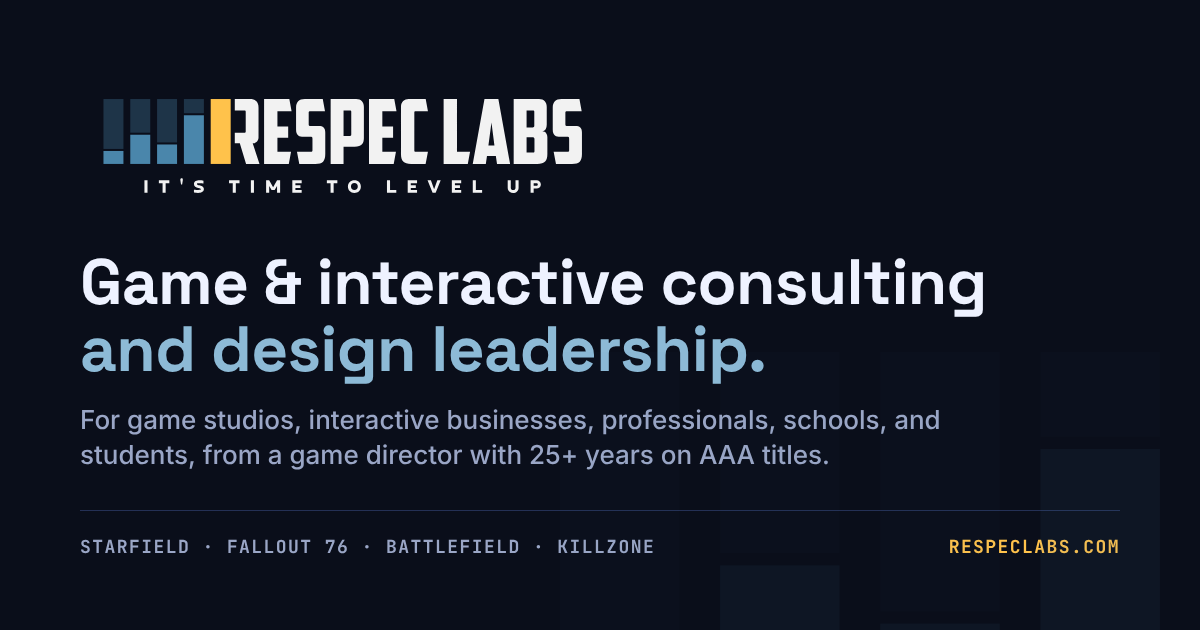
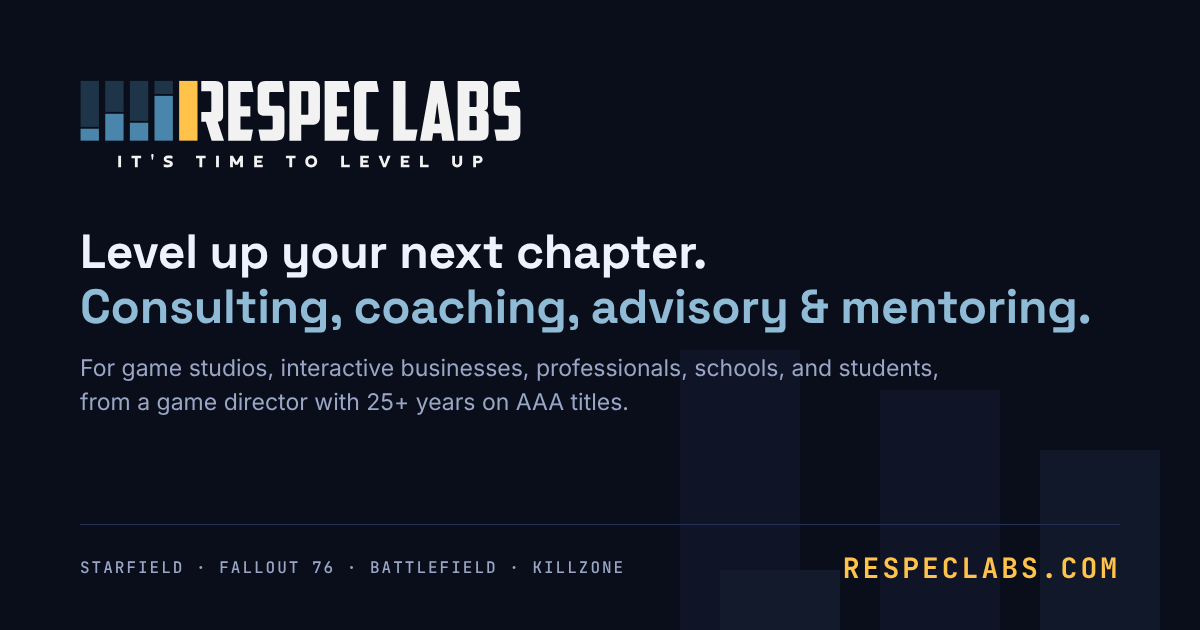
Share image: new card covering consulting, coaching, advisory and mentoring
Claude-Session: https://claude.ai/code/session_01UxKuUuAe5dujrEoscrRtF2

diff --git a/index.html b/index.html
@@ -15,14 +15,14 @@
 <meta property="og:title" content="Respec Labs | Game &amp; Interactive Consulting and Design Leadership">
 <meta property="og:description" content="Consulting and fractional design leadership for game studios and interactive businesses, plus coaching, school advisory, and student mentoring, from a game director with 25+ years on AAA titles.">
 <meta property="og:url" content="https://respeclabs.com/">
-<meta property="og:image" content="https://respeclabs.com/assets/social/og-image.png?v=4">
+<meta property="og:image" content="https://respeclabs.com/assets/social/og-image.png?v=5">
 <meta property="og:image:width" content="1200">
 <meta property="og:image:height" content="630">
 <meta property="og:image:alt" content="Respec Labs: game and interactive consulting, fractional design leadership, coaching, and mentoring">
 <meta name="twitter:card" content="summary_large_image">
 <meta name="twitter:title" content="Respec Labs | Game &amp; Interactive Consulting and Design Leadership">
 <meta name="twitter:description" content="Consulting and fractional design leadership for game studios and interactive businesses, plus coaching, school advisory, and student mentoring, from a game director with 25+ years on AAA titles.">
-<meta name="twitter:image" content="https://respeclabs.com/assets/social/og-image.png?v=4">
+<meta name="twitter:image" content="https://respeclabs.com/assets/social/og-image.png?v=5">
 <meta name="twitter:image:alt" content="Respec Labs: game and interactive consulting, fractional design leadership, coaching, and mentoring">
 <script type="application/ld+json">
 {
